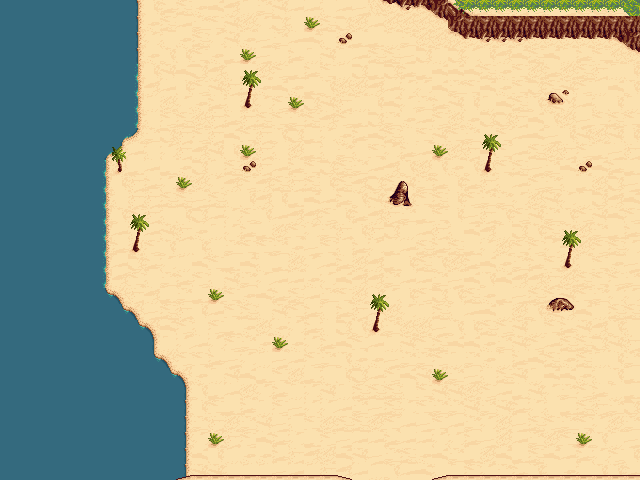
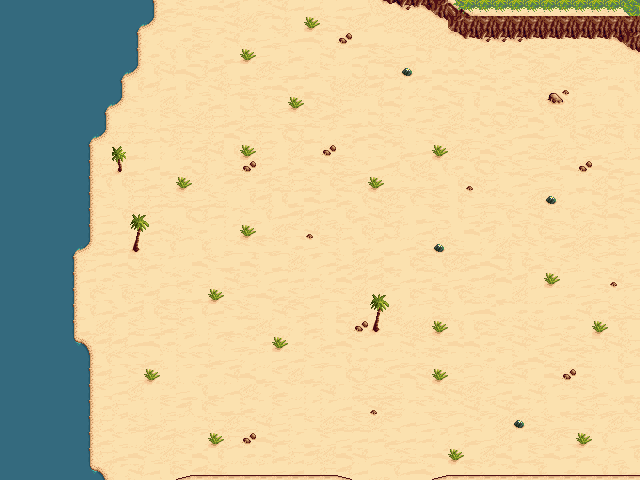
added moe lester hes the funny friendly neghborhood crab he loves children and hes very famous among the police officers in the area

diff --git a/script.py b/script.py
@@ -3,6 +3,8 @@ import pygame
 import math
 import time
 from pathfinding.core.grid import Grid
+import csv
+
 
 
 
@@ -17,7 +19,26 @@ screen = pygame.display.set_mode(size, flags=pygame.SCALED)
 
 clock = pygame.time.Clock()
 dt = 0
+tl = 16
 
+#save the map array inside a variable
+def load_csv(filename):
+    with open(filename, newline='') as csvfile:
+        reader = csv.reader(csvfile)
+        return [list(map(int, row)) for row in reader]
+
+collision_map = load_csv('map_Tile Layer 1.csv')
+unwalkeble = load_csv('map_obj.csv')
+
+def add_collision(collision_map):
+    nonowalk = []
+    for row_index, row in enumerate(collision_map):
+        for col_index, tile in enumerate(row):
+            nonowalk.append(pygame.Rect(col_index * tl, row_index * tl, tl, tl))
+    return nonowalk
+
+cant = add_collision(collision_map)
+#rotates the gun acording to the mouse position and distanced from the player
 def rotate_on_pivot(image, angle, pivot, origin):
     
     surf = pygame.transform.rotate(image, angle)
@@ -27,15 +48,40 @@ def rotate_on_pivot(image, angle, pivot, origin):
     rect = surf.get_rect(center = offset)
     
     return surf, rect
-"""class Enemy(pygame.sprite.Sprite):
+class Enemy(pygame.sprite.Sprite):
     def  __init__(self, x, y, image):
         super().__init__()
         self.x = x
         self.y = y
+        self.speed = 50
+        self.damage = 10
         self.image = pygame.image.load(f'{image}.png')
-    def update(self):
+        self.rect = self.image.get_rect(center=(self.x, self.y))
+        self.direction = pygame.math.Vector2()
+        self.velocity = pygame.math.Vector2()
+    def update(self, dt):
+        print(self.x)
+        self.player_pos = pygame.math.Vector2(player.x, player.y)
+        self.enemy_pos = pygame.math.Vector2(self.x, self.y)
+        self.distance = self.get_distance(self.player_pos, self.enemy_pos)
+        if self.distance > 15:
+            self.direction = (self.player_pos - self.enemy_pos).normalize()
+        else:
+            player.TakeDamage(12)
+            self.direction = pygame.math.Vector2()
+        self.velocity = self.speed * self.direction * dt
+        self.x += self.velocity.x
+        self.y += self.velocity.y
 
-    def draw(self):"""
+
+        self.rect = self.image.get_rect(center=(self.x, self.y))
+    def get_distance(self, player_pos, enemy_pos):
+        return (player_pos - enemy_pos).magnitude()  
+
+    def draw(self, screen):
+        screen.blit(self.image, self.rect.center)
+
+    
 
 
 class Objects(pygame.sprite.Sprite):
@@ -99,7 +145,7 @@ class Player(pygame.sprite.Sprite):
         self.y = y
         self.x_offset = 0
         self.y_offset = 0
-        self.speed = 200
+        self.speed = 100
         self.health = 100
         self.sun_bar = 100
         self.pressed = False
@@ -131,11 +177,12 @@ class Player(pygame.sprite.Sprite):
         self.limiy = 100
         self.flipping_gun = False
         self.run = False
+        self.stop = False
 
     def update(self, dt):
         self.time -= dt
         if self.run:
-            self.current_image +=0.3
+            self.current_image +=0.2
             if self.current_image >= len(self.images) -2:
                 self.current_image = 0
                 self.run = False
@@ -153,38 +200,55 @@ class Player(pygame.sprite.Sprite):
             #self.pressed = True
         keys = pygame.key.get_pressed()
 
-
+        self.rect = self.image.get_rect(center=(self.x, self.y))   
         if keys[pygame.K_w] and self.y <= self.limiy:
             self.yy -= self.speed * dt
             self.run = True
+            if self.stop:
+                self.yy += self.speed * dt
+            
         elif keys[pygame.K_s]and self.y >= screen.get_height() - self.limiy:
             self.yy += self.speed * dt
             self.run = True
+            if self.stop:
+                self.yy -= self.speed * dt
         if keys[pygame.K_a] and self.x <= self.limitx:
             self.xx -= self.speed * dt
             self.flip = False
             self.run = True
+            if self.stop:
+                self.xx += self.speed * dt
         elif keys[pygame.K_d] and self.x >= screen.get_width()- self.limitx:
             self.xx += self.speed * dt
             self.flip = True
             self.run = True
+            if self.stop:
+                self.xx -= self.speed * dt
 
         if keys[pygame.K_w]and self.y >= self.limiy:
             self.y -= self.speed * dt
             self.run = True
+            if self.stop:
+                self.y += self.speed * dt
         elif keys[pygame.K_s]and self.y <= screen.get_height() - self.limiy:
             self.y += self.speed * dt
             self.run = True
+            if self.stop:
+                self.y -= self.speed * dt
         if keys[pygame.K_a]and self.x >= self.limitx:
             self.x -= self.speed * dt
             self.flip = False
             self.run = True
+            if self.stop:
+                self.x += self.speed * dt
         elif keys[pygame.K_d]and self.x <= screen.get_width()- self.limitx:
             self.x += self.speed * dt
             self.flip = True
             self.run = True
-       
-        self.rect = self.image.get_rect(center=(self.x, self.y))
+            if self.stop:
+                self.x -= self.speed * dt
+  
+        
         self.x_offset = self.xx
         self.y_offset = self.yy
         self.gun_rect.x = self.x
@@ -193,7 +257,7 @@ class Player(pygame.sprite.Sprite):
         self.yy = 0
         self.flipping_gun = True if(mouse_angle < 0) else False
         
-        
+
         #drains the sun bar every 5 seconds
         if self.time <= 0:
            print('sun damage')
@@ -205,9 +269,13 @@ class Player(pygame.sprite.Sprite):
             pygame.sprite.Sprite.kill(self)
 
         return (self.x_offset, self.y_offset)
+    
+
+
+
             
     def draw(self):
-        self.gun_rotate, self.gun_rect = rotate_on_pivot(pygame.transform.flip(self.gun, self.flipping_gun, False), mouse_angle, (self.x, self.y), (self.x, self.y + 10))
+        self.gun_rotate, self.gun_rect = rotate_on_pivot(pygame.transform.flip(self.gun, self.flipping_gun, False), mouse_angle, (self.x, self.y), (self.x, self.y + 14))
         
         screen.blit(pygame.transform.flip(self.image, self.flip, False), self.rect)
         screen.blit(self.gun_rotate, self.gun_rect)
@@ -224,8 +292,13 @@ bottown = Button('fuck', 60, 60, 30, 100, 'red', 'wa')
 ui.add(bottown)
 bg = Objects()
 objects.add(bg)
+en = Enemy(200, 200, 'crab')
+en2 = Enemy(30, 10, 'crab')
+en1 = Enemy(500, 300, 'crab')
+objects.add(en)
+objects.add(en2)
+objects.add(en1)
 while True:
-    
     for event in pygame.event.get():
         if event.type == pygame.QUIT:
             pygame.quit()
@@ -236,9 +309,6 @@ while True:
     mouse_angle = math.degrees(math.atan2(mouse_pos[0] - player.x, mouse_pos[1] - player.y)) 
     objects.update(dt)
     bullets.update(dt)
-    
-    
-
     player.update(dt)
     for i in objects:
         i.x = i.x - player.x_offset
@@ -253,7 +323,7 @@ while True:
     
     for i in ui:
         i.draw()
-    
+
      #draw the health bar
     pygame.draw.line(screen, 'red', (10, 10), (10 + player.health, 10), width=4)
     pygame.draw.line(screen, 'yellow', (10, 20), (10 + player.sun_bar, 20), width=4)

diff --git a/map.py b/map.py
@@ -1,5 +1,6 @@
 import csv
 
+
 def load_csv(filename):
     with open(filename, newline='') as csvfile:
         reader = csv.reader(csvfile)
